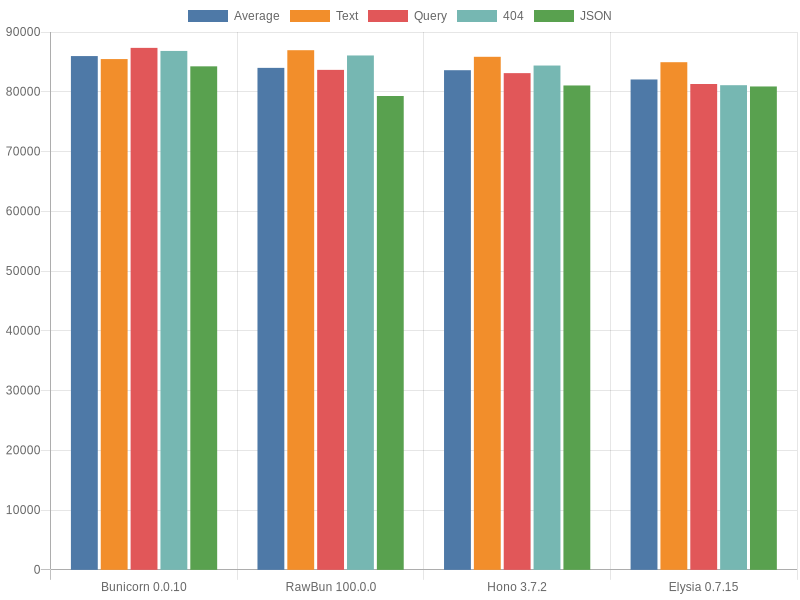
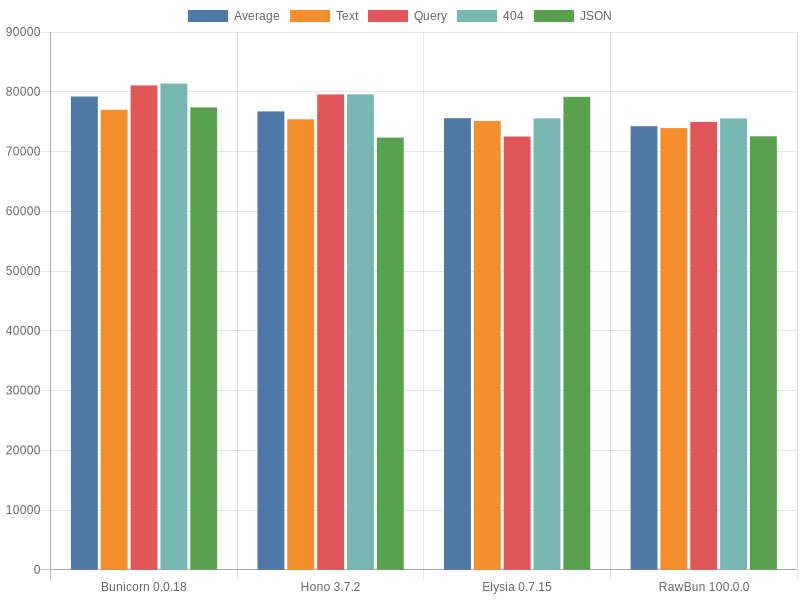
latest bench for bunicorn

diff --git a/src/Bunicorn/index.ts b/src/Bunicorn/index.ts
@@ -1,11 +1,11 @@
-import { BuniApp, RB, getBody, getSearchParams } from "@bunicorn/server";
+import { BunicornApp, RB } from "@bunicorn/server";
 
 const rb = new RB();
 
-const app = new BuniApp().addRoutes([
+const app = new BunicornApp().addRoutes([
   rb.get("/", (ctx) => ctx.raw("Hi")),
-  rb.get("/id/:id", (ctx) => ctx.raw(ctx.params.id + " " + getSearchParams(ctx).name)),
-  rb.post("/api/json", async (ctx) => ctx.json(await getBody(ctx))),
+  rb.get("/id/:id", (ctx) => ctx.raw(ctx.params.id + " " + ctx.getSearchParams().name)),
+  rb.post("/api/json", async (ctx) => ctx.json(await ctx.getBody())),
 ]);
 
 app.serve({ port: 3000 });

diff --git a/README.md b/README.md
@@ -1,7 +1,5 @@
 # Benchmark
 
-## This is not my repo, I cloned and changed it, you can see original here: -> https://github.com/bunsvr/benchmark
-
 Benchmarking Bun, Node and Deno [frameworks](/src) performance, in requests per second.
 
 You can see the details results [here](/results/index.md).
@@ -58,9 +56,9 @@ See [configuration file](/config.ts) and the [type declarations](/lib/types.ts).
 
 ### Table
 
-|                   Name                    | Average  | GET `/`  | GET `/id/92?name=QHc` | GET `/api/js` | POST `/api/json` |
+|                   Name                    | Average  | GET `/`  | GET `/id/77?name=yzN` | GET `/api/js` | POST `/api/json` |
 | :---------------------------------------: | :------: | :------: | :-------------------: | :-----------: | :--------------: |
-| [Bunicorn 0.0.10](/results/main/Bunicorn) | 85977.58 | 85468.24 |       87349.40        |   86833.95    |     84258.73     |
-|  [RawBun 100.0.0](/results/main/RawBun)   | 83996.48 | 86949.35 |       83664.37        |   86077.60    |     79294.59     |
-|     [Hono 3.7.2](/results/main/Hono)      | 83603.11 | 85848.63 |       83114.43        |   84393.96    |     81055.42     |
-|   [Elysia 0.7.15](/results/main/Elysia)   | 82055.08 | 84941.05 |       81298.26        |   81093.59    |     80887.43     |
+| [Bunicorn 0.0.18](/results/main/Bunicorn) | 79204.25 | 76982.94 |       81068.13        |   81378.43    |     77387.51     |
+|     [Hono 3.7.2](/results/main/Hono)      | 76710.43 | 75398.62 |       79552.49        |   79567.03    |     72323.60     |
+|   [Elysia 0.7.15](/results/main/Elysia)   | 75583.11 | 75114.60 |       72507.34        |   75548.82    |     79161.67     |
+|  [RawBun 100.0.0](/results/main/RawBun)   | 74238.77 | 73922.38 |       74951.25        |   75539.43    |     72542.04     |

diff --git a/results/index.md b/results/index.md
@@ -1,6 +1,6 @@
-Bun: 1.0.6
+Bun: 1.0.7
 
-Tested at: 17:53, October 18th, 2023
+Tested at: 15:13, October 24th, 2023
 
 ## OS Details
 - Cores: 12
@@ -11,7 +11,7 @@ Tested at: 17:53, October 18th, 2023
 ## Tests
 ### GET `/`
 Should return `Hi` as a response.
-### GET `/id/53?name=p6A`
+### GET `/id/84?name=SMg`
 Should return the `id` parameter value and the query value, for example `1 a` when the request path is `/id/1?name=a`.
 ### GET `/api/js`
 Should return a response with `404` status code.
@@ -24,9 +24,9 @@ Return the request body with `Content-Type` set to `application/json`.
 - Results are measured in requests per second.
 
 ## Results
-| Name | Average | GET `/` | GET `/id/92?name=QHc` | GET `/api/js` | POST `/api/json` |
+| Name | Average | GET `/` | GET `/id/77?name=yzN` | GET `/api/js` | POST `/api/json` |
 |  :---: | :---: | :---: | :---: | :---: | :---: |
-| [Bunicorn 0.0.10](/results/main/Bunicorn) | 85977.58 | 85468.24 | 87349.40 | 86833.95 | 84258.73 |
-| [RawBun 100.0.0](/results/main/RawBun) | 83996.48 | 86949.35 | 83664.37 | 86077.60 | 79294.59 |
-| [Hono 3.7.2](/results/main/Hono) | 83603.11 | 85848.63 | 83114.43 | 84393.96 | 81055.42 |
-| [Elysia 0.7.15](/results/main/Elysia) | 82055.08 | 84941.05 | 81298.26 | 81093.59 | 80887.43 |
+| [Bunicorn 0.0.18](/results/main/Bunicorn) | 79204.25 | 76982.94 | 81068.13 | 81378.43 | 77387.51 |
+| [Hono 3.7.2](/results/main/Hono) | 76710.43 | 75398.62 | 79552.49 | 79567.03 | 72323.60 |
+| [Elysia 0.7.15](/results/main/Elysia) | 75583.11 | 75114.60 | 72507.34 | 75548.82 | 79161.67 |
+| [RawBun 100.0.0](/results/main/RawBun) | 74238.77 | 73922.38 | 74951.25 | 75539.43 | 72542.04 |
